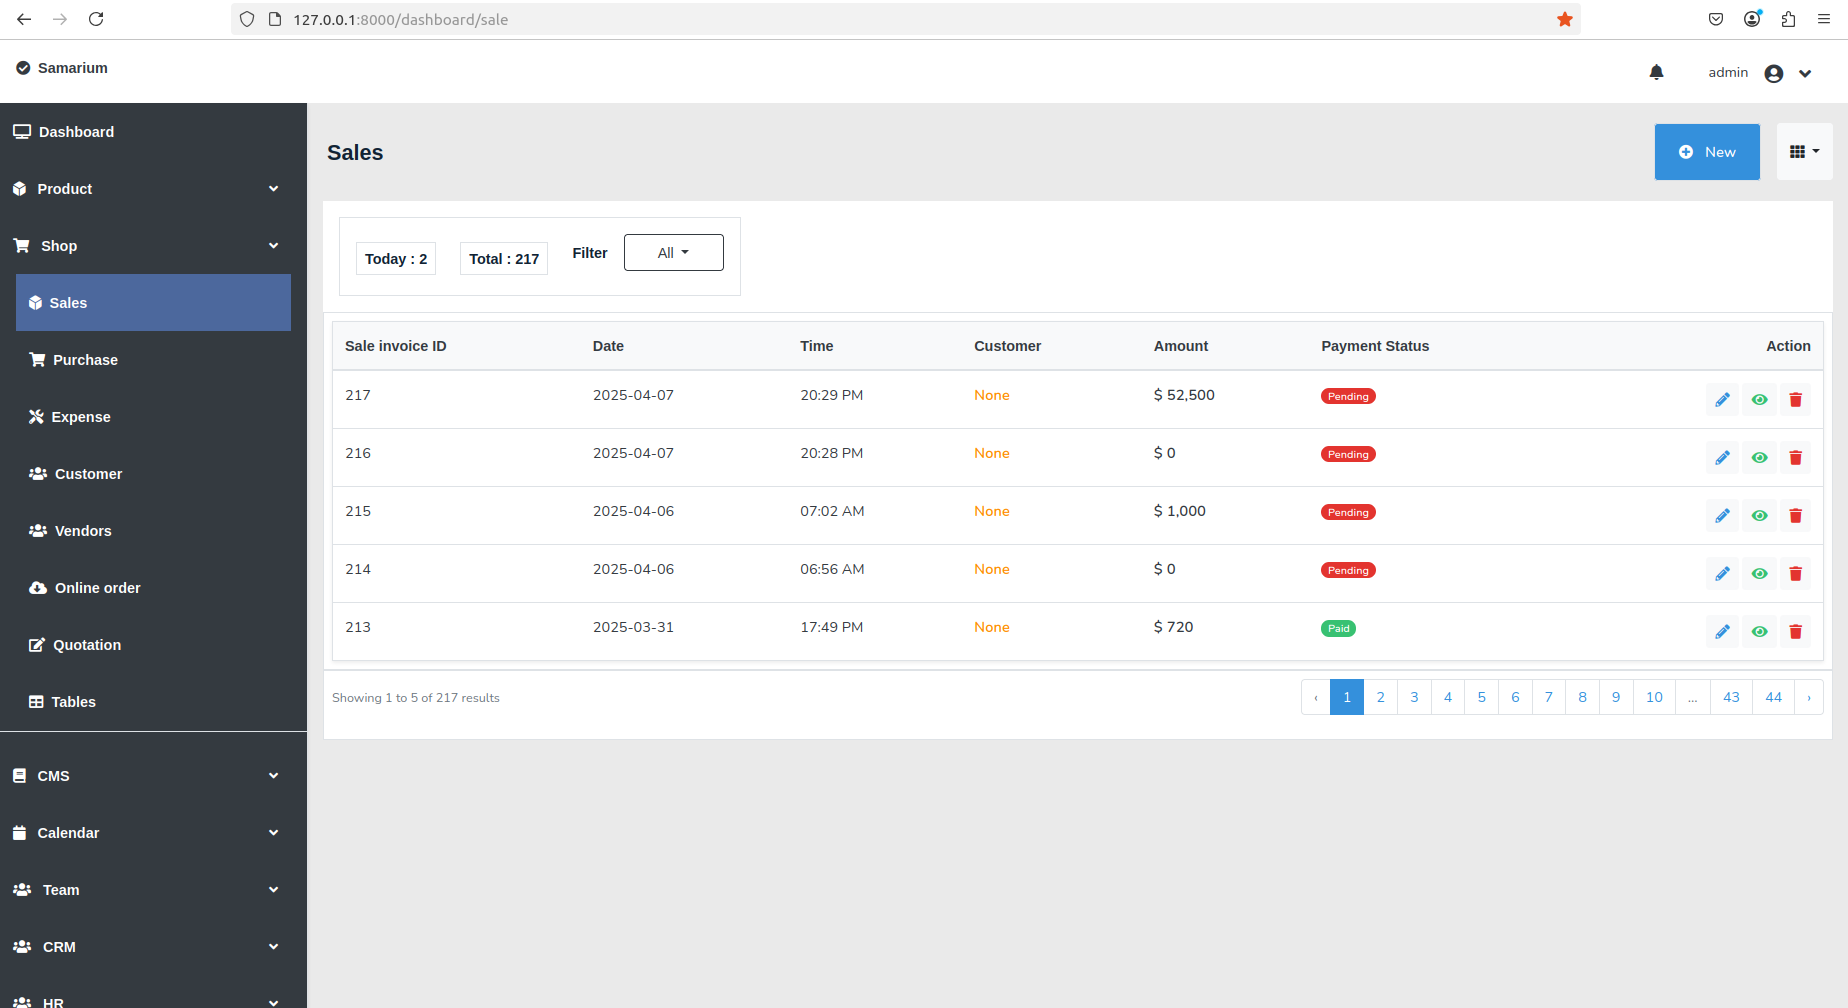
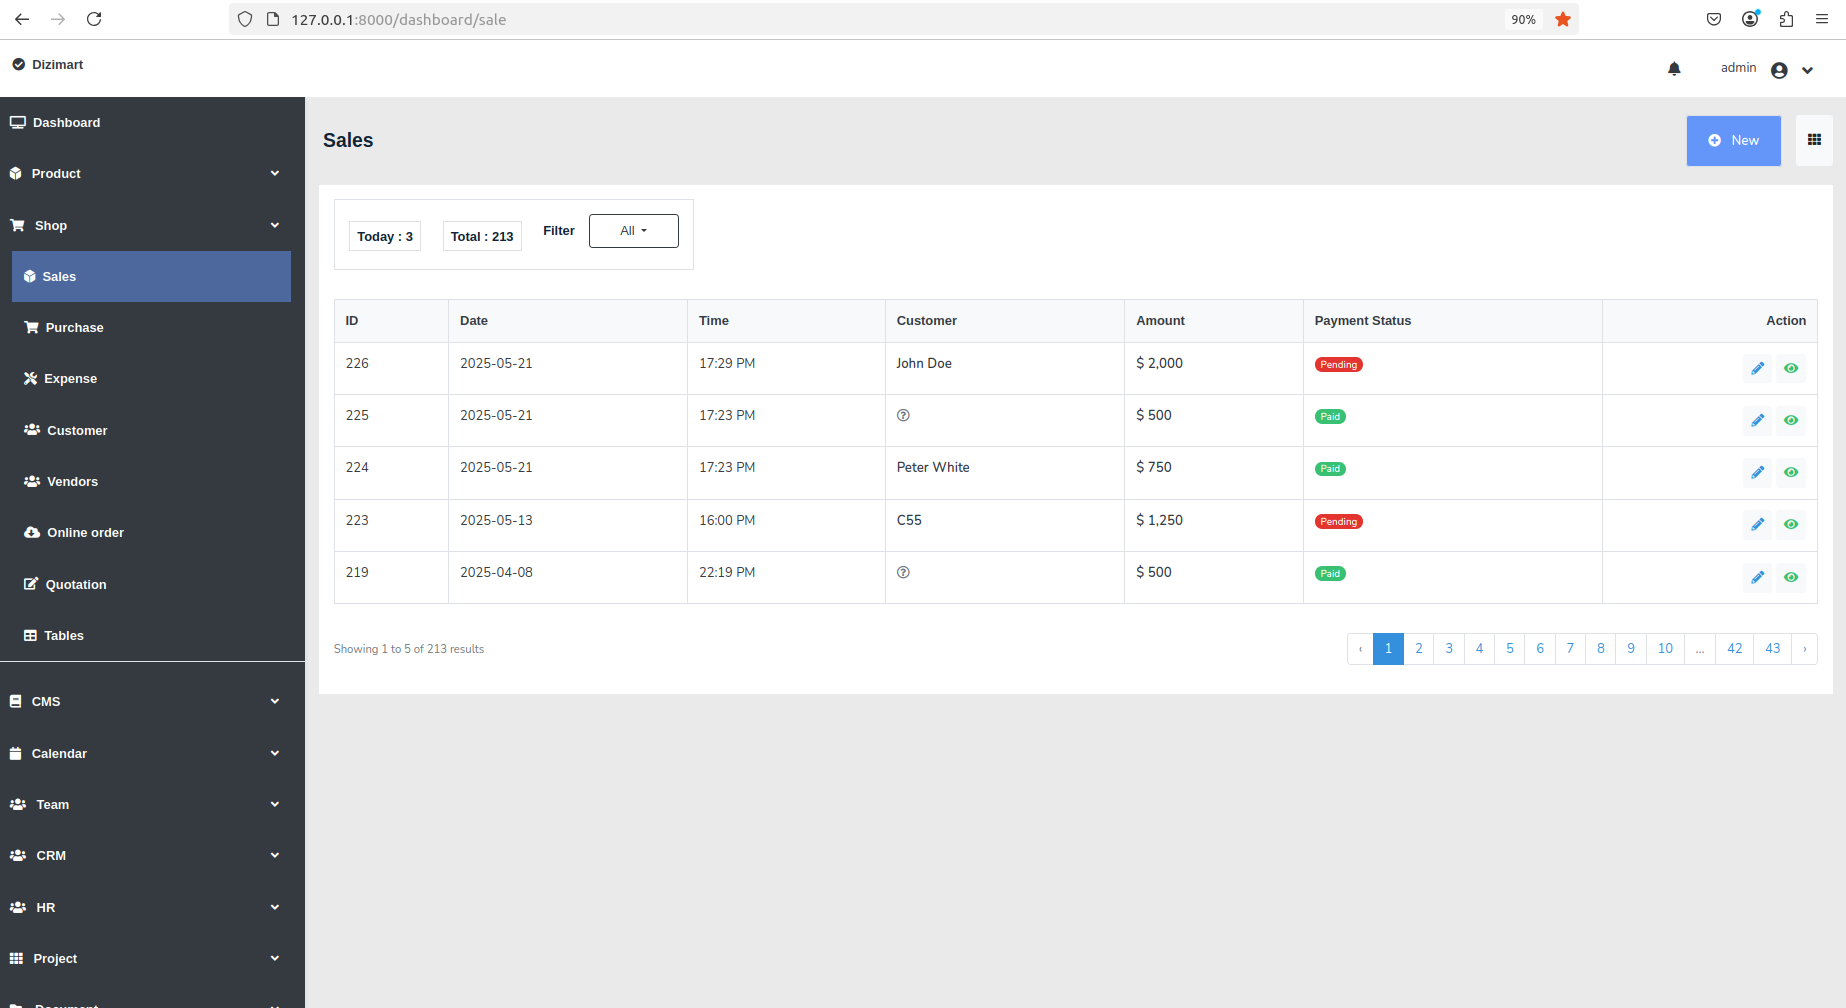
Misc dashboard UI updates

diff --git a/public/css/custom-style.css b/public/css/custom-style.css
@@ -221,3 +221,8 @@ animation-play-state:paused;
 .o-caret-off::after {
     display: none;
 }
+
+.o-package-color {
+    background-color: rgba(100, 150, 250, 1.0);
+    color: white;
+}

diff --git a/resources/views/livewire/purchase/purchase-list.blade.php b/resources/views/livewire/purchase/purchase-list.blade.php
@@ -6,12 +6,11 @@
 
     <x-slot name="listHeadingRow">
       <th class="d-none d-md-table-cell">ID</th>
-      <th class="d-none d-md-table-cell" style="width: 100px;">Date</th>
+      <th class="d-none d-md-table-cell">Date</th>
+      <th class="d-none d-md-table-cell">Time</th>
       <th class="d-none d-md-table-cell">Vendor</th>
-      <th class="d-none d-md-table-cell">Items</th>
-      <th class="d-none d-md-table-cell" style="width: 200px;">Payment Status</th>
-      <th class="d-none d-md-table-cell"> Pending</th>
       <th class="d-none d-md-table-cell">Amount</th>
+      <th class="d-none d-md-table-cell" style="width: 200px;">Payment Status</th>
       <th class="d-none d-md-table-cell text-right">Action</th>
     </x-slot>
 
@@ -25,19 +24,21 @@
             {{ $purchase->purchase_date }}
           </td>
           <td>
+            {{ $purchase->created_at->format('H:i A') }}
+          </td>
+          <td>
             @if ($purchase->vendor)
               {{ $purchase->vendor->name }}
             @else
+              <i class="far fa-question-circle text-muted"></i>
             @endif
           </td>
           <td>
-            @if ($purchase->purchaseItems)
-              @foreach ($purchase->purchaseItems as $purchaseItem )
-                {{ $purchaseItem->product->name }}
-                ,
-              @endforeach
+            {{ config('app.transaction_currency_symbol') }}
+            @if (is_int($purchase->getTotalAmount()))
+              @php echo number_format( $purchase->getTotalAmount() ); @endphp
             @else
-              NONE
+              @php echo number_format( $purchase->getTotalAmount(), 2 ); @endphp
             @endif
           </td>
           <td>
@@ -57,22 +58,6 @@
               @else
                 {{ $purchase->payment_status }}
               @endif
-            @endif
-          </td>
-          <td>
-            {{ config('app.transaction_currency_symbol') }}
-            @if (is_int($purchase->getPendingAmount()))
-              @php echo number_format( $purchase->getPendingAmount() ); @endphp
-            @else
-              @php echo number_format( $purchase->getPendingAmount(), 2 ); @endphp
-            @endif
-          </td>
-          <td>
-            {{ config('app.transaction_currency_symbol') }}
-            @if (is_int($purchase->getTotalAmount()))
-              @php echo number_format( $purchase->getTotalAmount() ); @endphp
-            @else
-              @php echo number_format( $purchase->getTotalAmount(), 2 ); @endphp
             @endif
           </td>
           <td class="text-right">

diff --git a/resources/views/livewire/sale-quotation/dashboard/sale-quotation-list.blade.php b/resources/views/livewire/sale-quotation/dashboard/sale-quotation-list.blade.php
@@ -17,13 +17,13 @@
         ID
       </th>
       <th class="d-none d-md-table-cell">
-        Customer
-      </th>
-      <th class="d-none d-md-table-cell">
         Date
       </th>
       <th class="d-none d-md-table-cell">
         Time
+      </th>
+      <th class="d-none d-md-table-cell">
+        Customer
       </th>
       <th class="d-none d-md-table-cell">
         Amount
@@ -41,19 +41,17 @@
             {{ $saleQuotation->sale_quotation_id }}
           </td>
           <td class="d-none d-md-table-cell">
-            @if ($saleQuotation->customer)
-              {{ $saleQuotation->customer->name }}
-            @else
-              <span class="text-secondary">
-                --
-              </span>
-            @endif
-          </td>
-          <td class="d-none d-md-table-cell">
             {{ $saleQuotation->sale_quotation_date }}
           </td>
           <td class="d-none d-md-table-cell">
             {{ $saleQuotation->created_at->format('H:i A') }}
+          </td>
+          <td class="d-none d-md-table-cell">
+            @if ($saleQuotation->customer)
+              {{ $saleQuotation->customer->name }}
+            @else
+              <i class="far fa-question-circle text-muted"></i>
+            @endif
           </td>
           <td class="font-weight-bold">
             {{ config('app.transaction_currency_symbol') }}

diff --git a/resources/views/livewire/contact-form/dashboard/contact-message-list.blade.php b/resources/views/livewire/contact-form/dashboard/contact-message-list.blade.php
@@ -67,13 +67,13 @@
         ID
       </th>
       <th>
+        Date
+      </th>
+      <th>
         Sender name
       </th>
       <th>
         Message
-      </th>
-      <th>
-        Date
       </th>
       <th>
         Status
@@ -89,14 +89,18 @@
           <td>
             {{ $contactMessage->contact_message_id }}
           </td>
+          <td>
+            {{ $contactMessage->created_at->toDateString() }}
+          </td>
           <td class="h6 font-weight-bold">
-            {{ $contactMessage->sender_name }}
+            @if ($contactMessage->sender_name)
+              {{ $contactMessage->sender_name }}
+            @else
+              <i class="far fa-question-circle text-muted"></i>
+            @endif
           </td>
           <td>
             {{ \Illuminate\Support\Str::limit($contactMessage->message, 100, $end=' ...') }}
-          </td>
-          <td>
-            {{ $contactMessage->created_at->toDateString() }}
           </td>
           <td>
             @if ($contactMessage->status == 'new')

diff --git a/resources/views/livewire/newsletter-subscription/dashboard/newsletter-subscription-list.blade.php b/resources/views/livewire/newsletter-subscription/dashboard/newsletter-subscription-list.blade.php
@@ -10,10 +10,10 @@
         ID
       </th>
       <th>
-        Email
+        Subscription date
       </th>
       <th>
-        Subscription date
+        Email
       </th>
       <th class="text-right">
         Action
@@ -26,13 +26,13 @@
           <td>
             {{ $newsletterSubscription->newsletter_subscription_id }}
           </td>
+          <td>
+            {{ $newsletterSubscription->created_at->toDateString() }}
+          </td>
           <td class="h6 font-weight-bold" wire:click="$dispatch('displayNewsletterSubscription', { newsletterSubscription: {{ $newsletterSubscription }} })" role="button">
             <span>
               {{ $newsletterSubscription->email }}
             </span>
-          </td>
-          <td>
-            {{ $newsletterSubscription->created_at->toDateString() }}
           </td>
           <td class="text-right">
             @if ($modes['confirmDelete'])

diff --git a/resources/views/livewire/sale/sale-invoice-list.blade.php b/resources/views/livewire/sale/sale-invoice-list.blade.php
@@ -67,7 +67,7 @@
 
     <x-slot name="listHeadingRow">
       <th class="d-none d-md-table-cell">
-        Sale invoice ID
+        ID
       </th>
       <th class="d-none d-md-table-cell">
         Date
@@ -109,13 +109,11 @@
           </td>
           <td class="d-none d-md-table-cell">
             @if ($saleInvoice->customer)
-              <span class="font-weight-bold" style="color: #fe8d01;">
+              <span class="font-weight-bold">
                 {{ $saleInvoice->customer->name }}
               </span>
             @else
-              <span class="font-weight-bold" style="color: #fe8d01;">
-                None 
-              </span>
+              <i class="far fa-question-circle text-muted"></i>
             @endif
           </td>
           <td class="font-weight-bold">

diff --git a/resources/views/livewire/vacancy/dashboard/vacancy-list.blade.php b/resources/views/livewire/vacancy/dashboard/vacancy-list.blade.php
@@ -10,10 +10,10 @@
         ID
       </th>
       <th>
-        Vacancy
+        Date
       </th>
       <th>
-        Date
+        Vacancy
       </th>
       <th class="text-right">
         Action
@@ -26,13 +26,13 @@
           <td>
             {{ $vacancy->vacancy_id }}
           </td>
+          <td>
+          {{ $vacancy->created_at->toDateString() }}
+          </td>
           <td class="h6 font-weight-bold" wire:click="$dispatch('displayVacancy', { vacancy: {{ $vacancy }} })" role="button">
             <span>
               {{ $vacancy->title }}
             </span>
-          </td>
-          <td>
-          {{ $vacancy->created_at->toDateString() }}
           </td>
           <td class="text-right">
             @if ($modes['confirmDelete'])

diff --git a/resources/views/livewire/todo/dashboard/todo-list.blade.php b/resources/views/livewire/todo/dashboard/todo-list.blade.php
@@ -113,9 +113,7 @@
             @if ($todo->due_date)
               {{ $todo->due_date }}
             @else
-              <span class="badge badge-warning badge-pill">
-                Not set
-              </span>
+              <i class="far fa-question-circle text-muted"></i>
             @endif
           </td>
           <td class="d-none d-md-table-cell">
@@ -123,9 +121,7 @@
               <i class="fas fa-user-circle mr-1"></i>
               {{ $todo->assignedTo->name }}
             @else
-              <span class="badge badge-warning badge-pill">
-                Not set
-              </span>
+              <i class="far fa-question-circle text-muted"></i>
             @endif
           </td>
           <td>

diff --git a/resources/views/components/list-component.blade.php b/resources/views/components/list-component.blade.php
@@ -14,8 +14,8 @@
    | The table
    |
 --}}
-<div class="table-responsive p-2 bg-white border ">
-  <table class="table table-hover shadow-sm border mb-0">
+<div class="table-responsive p-3 bg-white border-rm ">
+  <table class="table table-bordered table-hover shadow-sm-rm border mb-0">
     <thead>
       <tr class="{{ config('app.app_menu_bg_color') }}-rm {{ config('app.app_menu_normal_button_text_color') }}-rm bg-light text-dark p-4 o-heading">
         {{ $listHeadingRow }}
@@ -33,6 +33,6 @@
    | Pagination links
    |
 --}}
-<div class="bg-white border p-2">
+<div class="bg-white border-rm p-3">
   {{ $listPaginationLinks }}
 </div>

diff --git a/resources/views/livewire/expense/expense-list.blade.php b/resources/views/livewire/expense/expense-list.blade.php
@@ -23,9 +23,13 @@
             {{ $expense->date }}
           </td>
           <td>
-            @foreach ($expense->expenseItems as $expenseItem)
-              {{ $expenseItem->name }}
-            @endforeach
+            @if (count($expense->expenseItems) > 0)
+              @foreach ($expense->expenseItems as $expenseItem)
+                {{ $expenseItem->name }}
+              @endforeach
+            @else
+              <i class="far fa-question-circle text-muted"></i>
+            @endif
           </td>
           <td>
             {{ config('app.transaction_currency_symbol') }}

diff --git a/resources/views/livewire/customer/customer-list.blade.php b/resources/views/livewire/customer/customer-list.blade.php
@@ -29,9 +29,7 @@
             @if ($customer->phone)
               {{ $customer->phone }}
             @else
-              <span class="text-secondary">
-                No info
-              </span>
+              <i class="far fa-question-circle text-secondary"></i>
             @endif
           </td>
           <td>

diff --git a/resources/views/livewire/cms/dashboard/post-list.blade.php b/resources/views/livewire/cms/dashboard/post-list.blade.php
@@ -53,8 +53,7 @@
                 </span>
               @endforeach
             @else
-              <i class="fas fa-exclamation-circle text-secondary mr-2"></i>
-              None
+              <i class="far fa-question-circle text-muted"></i>
             @endif
           </td>
           <td>
